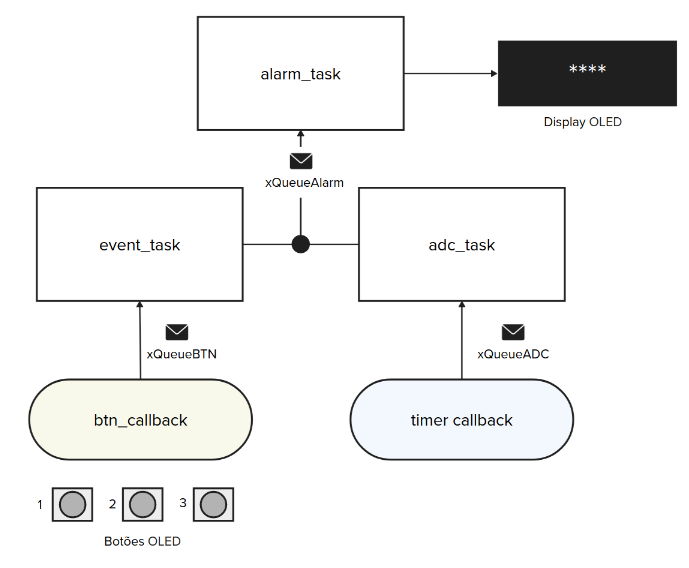
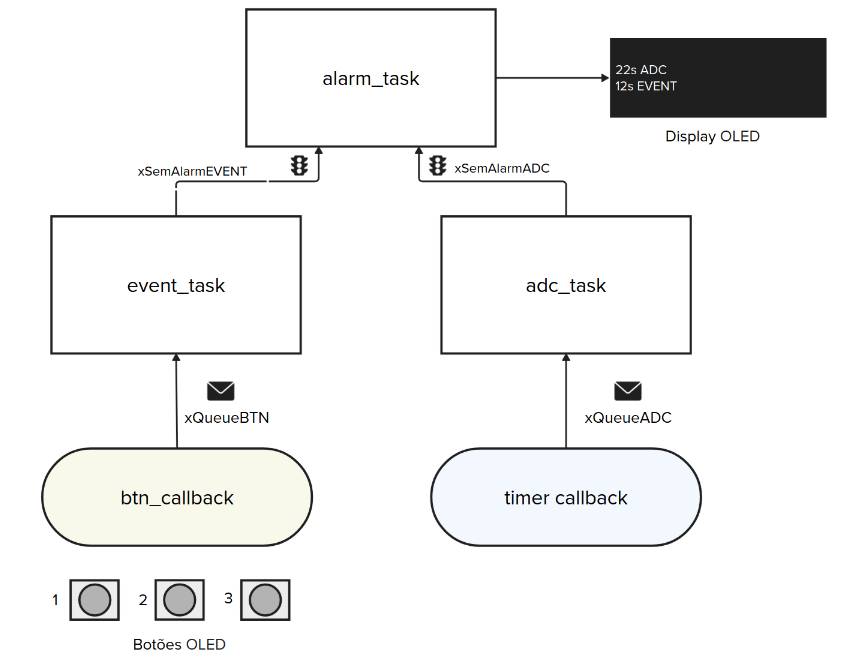
v1

diff --git a/README.md b/README.md
@@ -36,10 +36,10 @@ A seguir um exemplo de log, nele conseguimos verificar a leitura do AFEC, e no s
  [ADC  ] 8s   4000
  [ADC  ] 9s   4004
  [ADC  ] 10s  4002
- [ADC  ] 11s  4001
+ [ADC  ] 11s  3001
  [ADC  ] 12s  4001
- [ADC  ] 13s  4001
- [ADC  ] 14s  4001
+ [ADC  ] 13s  4002
+ [ADC  ] 14s  4004
  [ALARM] 15s  ADC 
 ```
 
@@ -58,7 +58,11 @@ A task, ao receber os dados deve realizar a seguinte ação:
 1. Verificar a condicão de alarme:
     - 5 segundos com o valor do ADC maior que 3000
     
-Caso a condição de alarme seja atingida enviar um alarme para a fila `xQueueAlarm` indicando que o alarme é do tipo AFEC.
+Caso a condição de alarme seja atingida enviar um alarme para o semáforo `xSemAlarmADC` indicando que o alarme foi gerado por conta do ADC.
+
+### `timer_callback`
+
+Um evento de timer gerado a cada `1s` que será responsável por fazer a leitura do ADC e enviar o valor lido para a fila `xQueueADC`. 
 
 ### `event_task` 
 
@@ -75,43 +79,48 @@ A task, ao receber os dados deve realizar a seguinte ação:
 1. Verificar a condição de alarme:
     - Dois botões pressionados ao mesmo tempo
     
-Caso a condição de alarme seja atingida, liberar o semáforo `xSemaphoreEventAlarm`.
-### task_alarm
+Caso a condição de alarme seja atingida, liberar o semáforo `xSemAlarmEvent`.
+
+### `alarm_task`
 
 Responsável por gerenciar cada um dos tipos de alarme diferente: `adc` e `event`. A cada ativacão do alarme a task deve emitir um Log pela serial, O alarme vai ser um simples pisca LED, para cada um dos alarmes vamos atribuir um LED diferente da placa OLED: 
 
 - `EVENT`: LED1
 - `ADC `: LED2
 
-Os alarmes são ativados pelos semáforos `xSemaphoreAfecAlarm` e `xSemaphoreEventAlarm`. Uma vez ativado o alarme, o mesmo deve ficar ativo até a placa reiniciar.
+Os alarmes são ativados pelos semáforos `xSemAlarmEvent` e `xSemAlarmADC`. Uma vez ativado o alarme, o mesmo deve ficar ativo até a placa reiniciar.
 
-Ao ativar um alarmme exibir no OLED um log simplificado (um por linha):
+Ao ativar um alarme exibir no OLED um log simplificado (um por linha):
 
 ```  
-mm:ss AFEC
-mm:ss Event
+TICK ADC
+TICK Event
 ```
 
+### `TICKs`
+
+Os ticks dão uma ĩndicaćão de tempo e devem indicar um valor absoluto desde que a placa foi inicializada. Para isso vocês devem usar o recurso do timer de tempo absoluto, converter o valor de `ms` para `s` ( `to_ms_since_boot(get_absolute_time());` ).
 
 ## Rubrica
 
 > Não possuir erro de qualidade de código detectado no github actions.
 
-- [ ] Leitura do AFEC via TC 1hz e envio do dado para a fila `xQueueAfec`
+- [ ] Leitura do ADC via callback do Timer em 1hz e envio do dado para a fila `xQueueADC`
+- [ ] Usa o tempo absoluto do timer para medir o `ticks`
 - [ ] Leitura dos botões do OLED via IRS e envio do dado para fila `xQueueEvent`
 - `task_afec`
-    - log:  `[AFEC ] DD:MM:YYYY HH:MM:SS $VALOR` 
+    - log:  `[ADC  ] TICKs $VALOR` 
     - alarme se o valor do AFEC estiver maior que 3000 durante 5s
-        - libera semáforo `xSemaphoreAfecAlarm`
+        - libera semáforo `xSemAlarmADC`
 - `task_event`
-    - log:  `[EVENT] DD:MM:YYYY HH:MM:SS $ID:$STATUS` 
+    - log:  `[EVENT] TICKs $ID:$STATUS` 
     - alarme se houver dois botões pressionados ao mesmo tempo
-        - libera semáforo `xSemaphoreEventAlarm`
+        - libera semáforo `xSemAlarmEvent`
 - `task_alarm`
-    - verifica dois semáforos: `xSemaphoreEventAlarm` e `xSemaphoreAfecAlarm`
-    - quanto liberado o semáforo, gerar o log:  `[ALARM] DD:MM:YYYY HH:MM:SS $ALARM` 
-    - piscar led 1 dado se alarm AFEC ativo (`xSemaphoreAfecAlarm`)
-    - piscar led 2 dado se alarm EVENT ativo (`xSemaphoreEventAlarm`)
+    - verifica dois semáforos: `xSemAlarmADC` e `xSemAlarmTicks`
+    - quanto liberado o semáforo, gerar o log:  `[ALARM] TICKs $ALARM` 
+    - piscar led 1 dado se alarm AFEC ativo (`xSemAlarmADC`)
+    - piscar led 2 dado se alarm EVENT ativo (`xSemAlarmEvent`)
     - Exibir no OLED as informações do alarme
     
 :bangbang: :warning: :bangbang: Não devem ser utilizadas **variáveis globais**, todo o processo deve ser feito através das filas e semáforos. :bangbang: :warning: :bangbang:
